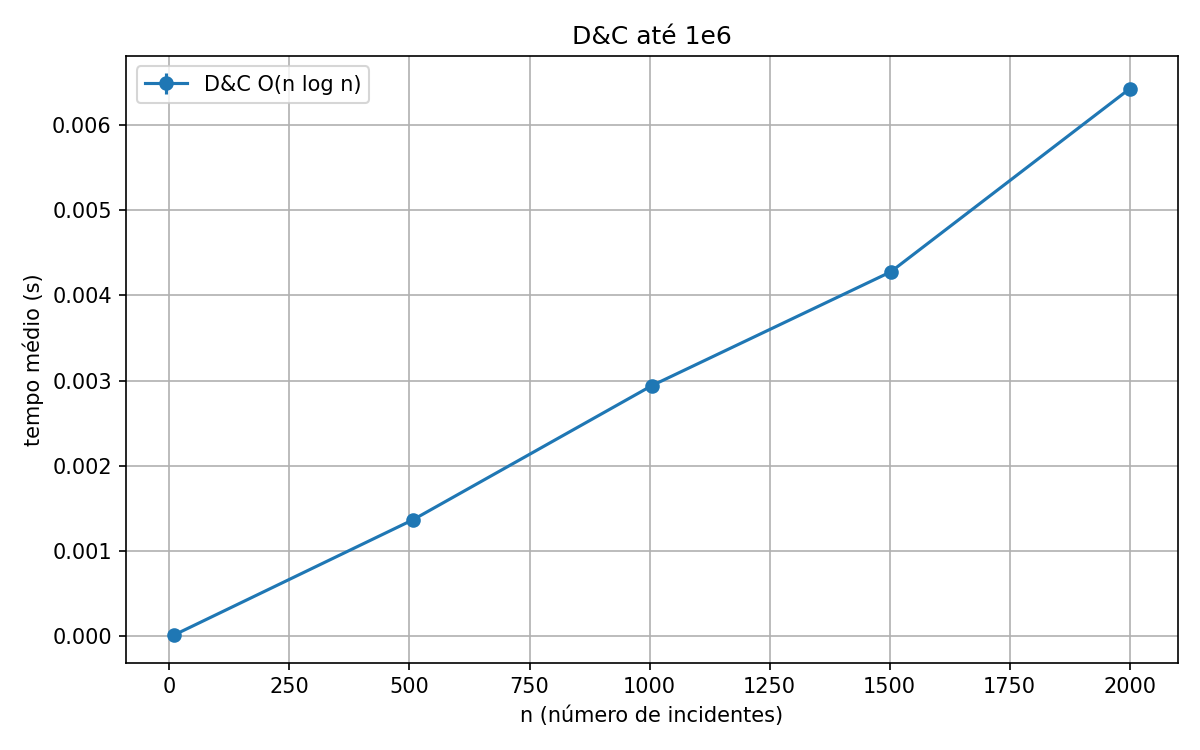
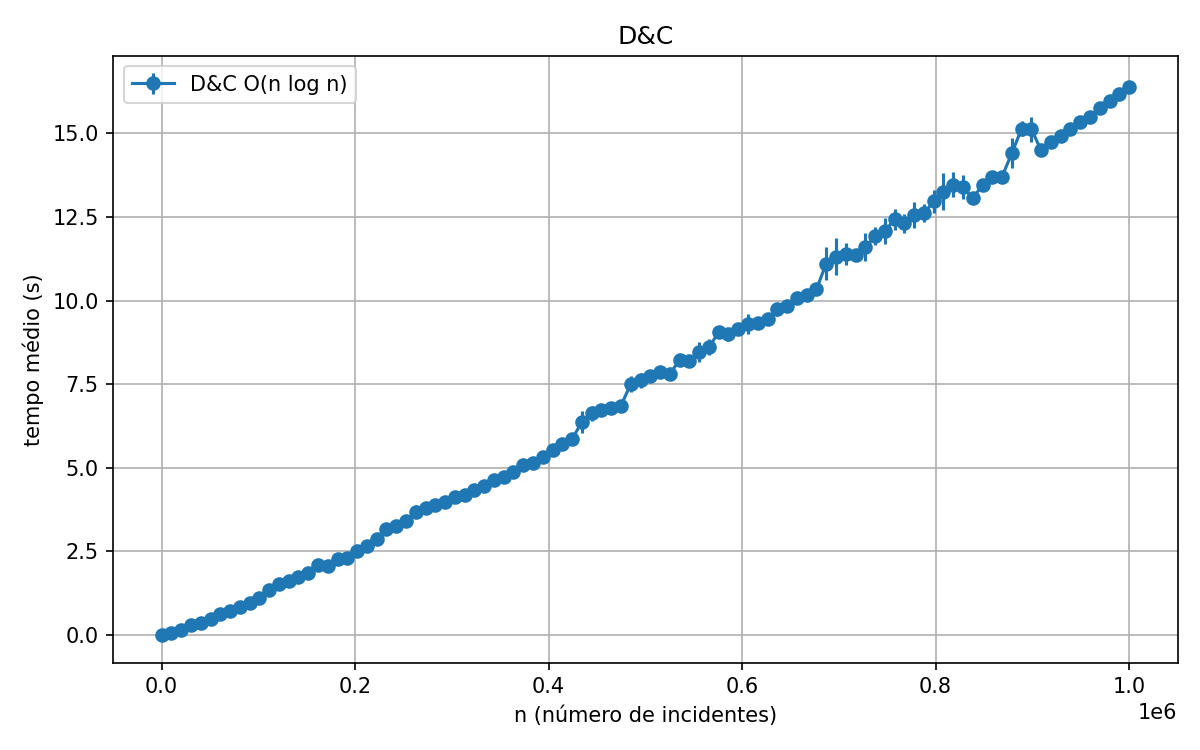
feat: Adiciona resultados

diff --git a/main.py b/main.py
@@ -11,8 +11,8 @@ if __name__ == "__main__":
     os.makedirs("results/csv", exist_ok=True)
     os.makedirs("results/figures", exist_ok=True)
 
-    sizes_all = linspace_int(10, 2000, 5)
-    # sizes_all = linspace_int(100, 1_000_000, 100)
+    # sizes_all = linspace_int(10, 2000, 5)
+    sizes_all = linspace_int(100, 1_000_000, 100)
     sizes_small = [n for n in sizes_all if n <= 30_000]
 
     dataset = make_dataset(mode="mixed")

diff --git a/src/divide_conquer.py b/src/divide_conquer.py
@@ -28,6 +28,7 @@ class ClosestPairDivideConquer(ClosestPairBase):
         for p in Py:
             (Qy if p in qset else Ry).append(p)
 
+        #T(n) = 2T(n/2) + O(n)
         dl2, pair_l = self._rec(Qx, Qy)
         dr2, pair_r = self._rec(Rx, Ry)
         d2, best = (dl2, pair_l) if dl2 < dr2 else (dr2, pair_r)
